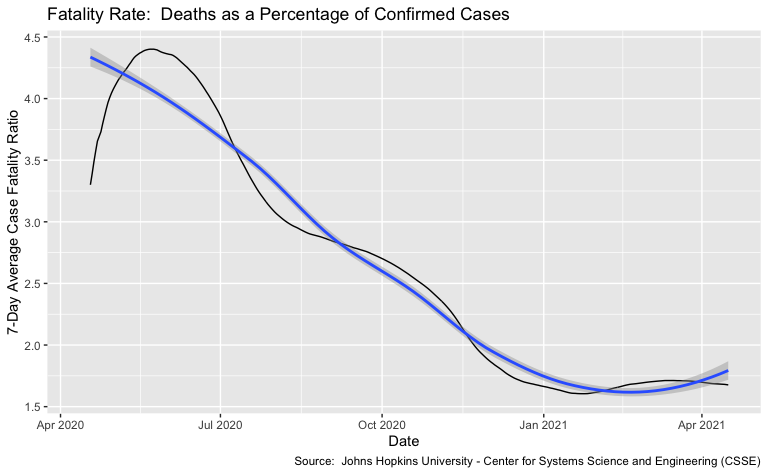
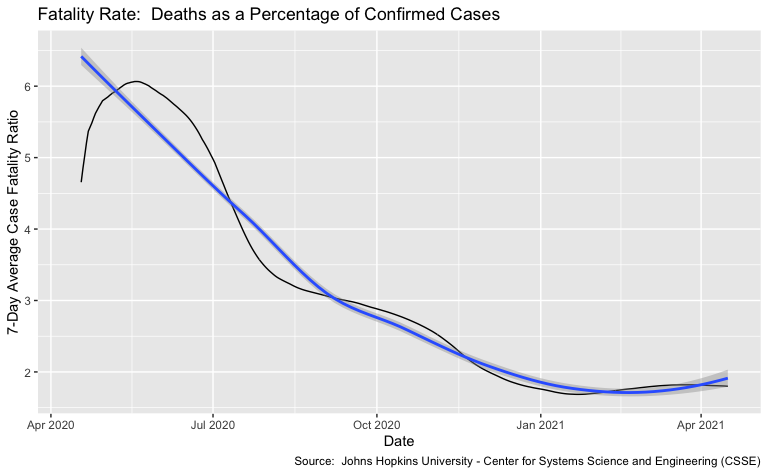
ok - this time I mean it - fixed the fatality rate calculation

diff --git a/JH_CSSE_Covid19_Data.md b/JH_CSSE_Covid19_Data.md
@@ -30,16 +30,16 @@ H. David Shea
 
 ### National Level Data
 
-| Date       | Confirmed | Deaths | Recovered | Active | Incident\_Rate | Total\_Test\_Results | Case\_Fatality\_Ratio | Testing\_Rate | Confirmed\_7 | Deaths\_7 | Recovered\_7 | Active\_7 | Incident\_Rate\_7 | Total\_Test\_Results\_7 | Case\_Fatality\_Ratio\_7 | Testing\_Rate\_7 |
-|:-----------|----------:|-------:|----------:|-------:|---------------:|---------------------:|----------------------:|--------------:|-------------:|----------:|-------------:|----------:|------------------:|------------------------:|-------------------------:|-----------------:|
-| 2020-04-12 |    554369 |  22310 |        NA | 532102 |       7218.352 |              2812982 |              2.985949 |      51505.05 |           NA |        NA |           NA |        NA |                NA |                      NA |                       NA |               NA |
-| 2020-04-13 |    558617 |  23387 |        NA | 535374 |       7466.461 |              2745533 |              3.033143 |      53479.99 |           NA |        NA |           NA |        NA |                NA |                      NA |                       NA |               NA |
-| 2020-04-14 |    627729 |  26671 |        NA | 703142 |       8543.583 |              3286096 |              3.139931 |      57900.84 |           NA |        NA |           NA |        NA |                NA |                      NA |                       NA |               NA |
-| 2020-04-15 |    635512 |  28658 |        NA | 606759 |       8334.222 |              3251791 |              3.334925 |      59848.39 |           NA |        NA |           NA |        NA |                NA |                      NA |                       NA |               NA |
-| 2020-04-16 |    666737 |  33214 |        NA | 633555 |       8774.668 |              3410091 |              3.455323 |      62317.06 |           NA |        NA |           NA |        NA |                NA |                      NA |                       NA |               NA |
-| 2020-04-17 |    698759 |  37086 |        NA | 661580 |       9270.026 |              3550570 |              3.553918 |      65075.30 |           NA |        NA |           NA |        NA |                NA |                      NA |                       NA |               NA |
-| 2020-04-18 |    731187 |  38982 |        NA | 692130 |       9748.500 |              3700620 |              3.597363 |      67747.25 |           NA |        NA |           NA |        NA |                NA |                      NA |                 3.300378 |               NA |
-| 2020-04-19 |    757924 |  41015 |        NA | 716929 |      10144.696 |              3874988 |              3.611191 |      70597.29 |     29079.29 |  2672.143 |           NA |  26403.86 |          418.0492 |                151715.1 |                 3.389698 |         2727.463 |
+| Date       | Confirmed | Deaths | Recovered | Active | Incident\_Rate | Total\_Test\_Results | Testing\_Rate | Confirmed\_7 | Deaths\_7 | Recovered\_7 | Active\_7 | Incident\_Rate\_7 | Total\_Test\_Results\_7 | Testing\_Rate\_7 | Case\_Fatality\_Ratio | Case\_Fatality\_Ratio\_7 |
+|:-----------|----------:|-------:|----------:|-------:|---------------:|---------------------:|--------------:|-------------:|----------:|-------------:|----------:|------------------:|------------------------:|-----------------:|----------------------:|-------------------------:|
+| 2020-04-12 |    554369 |  22310 |        NA | 532102 |       7218.352 |              2812982 |      51505.05 |           NA |        NA |           NA |        NA |                NA |                      NA |               NA |              4.024395 |                       NA |
+| 2020-04-13 |    558617 |  23387 |        NA | 535374 |       7466.461 |              2745533 |      53479.99 |           NA |        NA |           NA |        NA |                NA |                      NA |               NA |              4.186589 |                       NA |
+| 2020-04-14 |    627729 |  26671 |        NA | 703142 |       8543.583 |              3286096 |      57900.84 |           NA |        NA |           NA |        NA |                NA |                      NA |               NA |              4.248808 |                       NA |
+| 2020-04-15 |    635512 |  28658 |        NA | 606759 |       8334.222 |              3251791 |      59848.39 |           NA |        NA |           NA |        NA |                NA |                      NA |               NA |              4.509435 |                       NA |
+| 2020-04-16 |    666737 |  33214 |        NA | 633555 |       8774.668 |              3410091 |      62317.06 |           NA |        NA |           NA |        NA |                NA |                      NA |               NA |              4.981574 |                       NA |
+| 2020-04-17 |    698759 |  37086 |        NA | 661580 |       9270.026 |              3550570 |      65075.30 |           NA |        NA |           NA |        NA |                NA |                      NA |               NA |              5.307409 |                       NA |
+| 2020-04-18 |    731187 |  38982 |        NA | 692130 |       9748.500 |              3700620 |      67747.25 |           NA |        NA |           NA |        NA |                NA |                      NA |               NA |              5.331331 |                 4.655649 |
+| 2020-04-19 |    757924 |  41015 |        NA | 716929 |      10144.696 |              3874988 |      70597.29 |     29079.29 |  2672.143 |           NA |  26403.86 |          418.0492 |                151715.1 |         2727.463 |              5.411492 |                 4.853806 |
 
 ### State Level Data
 
